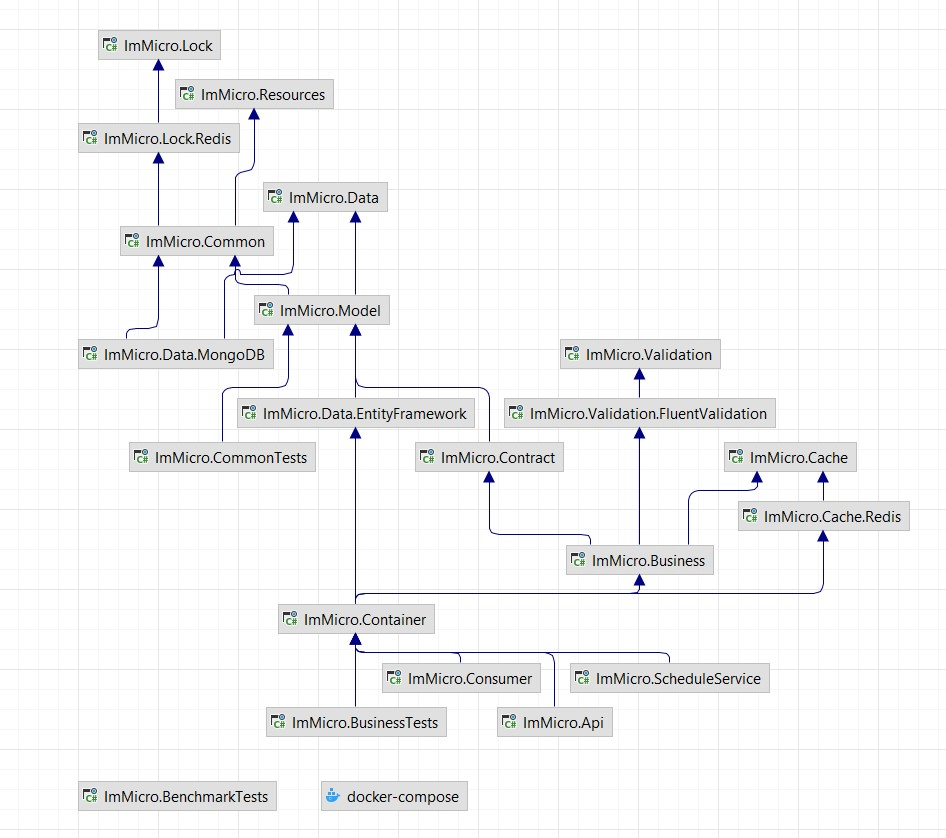
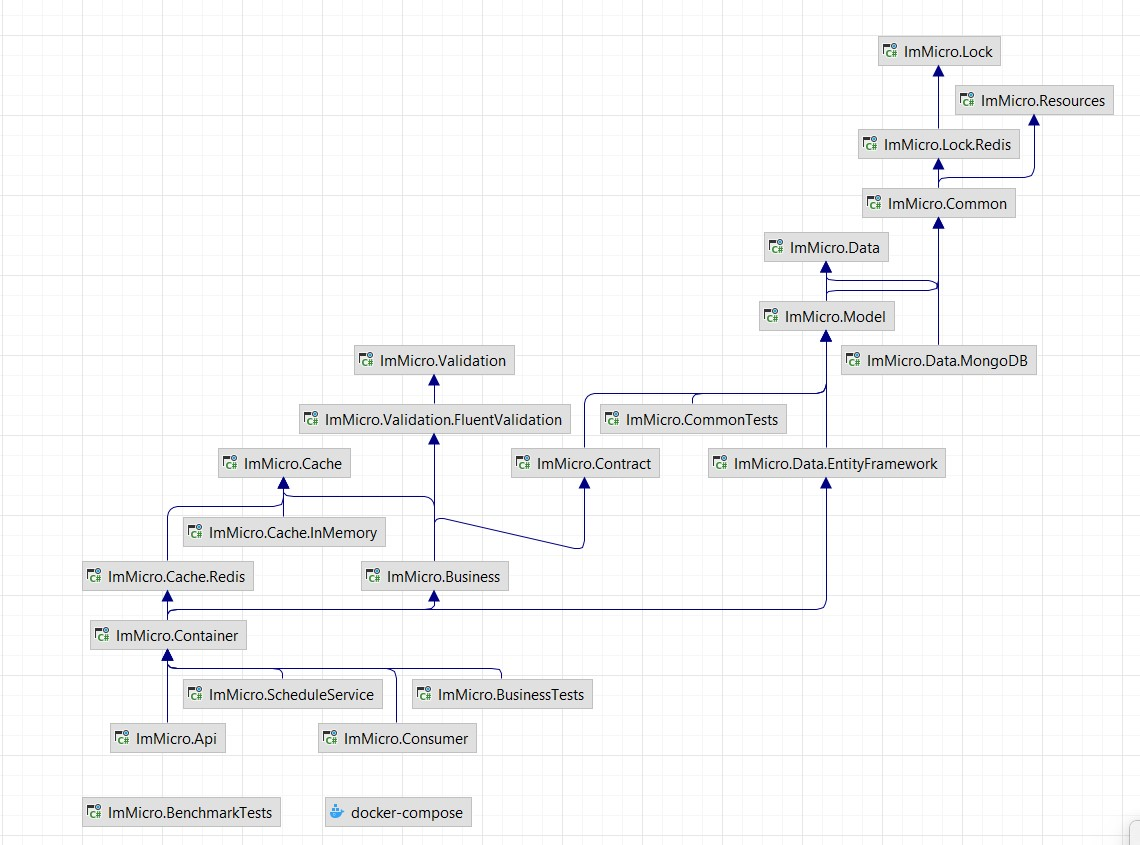
InMemory cache project added.

diff --git a/ImMicro.Cache.InMemory/Concrete/InMemoryCacheService.cs b/ImMicro.Cache.InMemory/Concrete/InMemoryCacheService.cs
@@ -1,16 +1,15 @@
-using ImMicro.Cache.Abstract; 
-using Microsoft.Extensions.Caching.Distributed;
-using Newtonsoft.Json; 
+using ImMicro.Cache.Abstract;
+using Microsoft.Extensions.Caching.Memory;
 
-namespace ImMicro.Cache.Redis.Concrete
+namespace ImMicro.Cache.InMemory.Concrete
 {
-    public class RedisCacheService : ICacheService
+    public class InMemoryCacheService : ICacheService
     {
-        private readonly IDistributedCache _distributedCache;
+        private IMemoryCache _memoryCache;
 
-        public RedisCacheService(IDistributedCache distributedCache)
+        public InMemoryCacheService(IMemoryCache memoryCache)
         {
-            _distributedCache = distributedCache;
+            _memoryCache = memoryCache;
         }
 
         public async Task<T> GetOrSetObjectAsync<T>(string key, Func<T> code, int durationAsMinute, CancellationToken cancellationToken)
@@ -42,17 +41,15 @@ namespace ImMicro.Cache.Redis.Concrete
         public async Task SetObjectAsync<T>(string key, T value, int durationAsMinute, CancellationToken cancellationToken)
         {
             key = $"{key}_{Thread.CurrentThread.CurrentUICulture.Name}";
-            await _distributedCache.SetStringAsync(key, JsonConvert.SerializeObject(value), new DistributedCacheEntryOptions
-            {
-                AbsoluteExpirationRelativeToNow = TimeSpan.FromMinutes(durationAsMinute)
-            }, cancellationToken);
+            var options = new MemoryCacheEntryOptions() { AbsoluteExpiration = DateTime.UtcNow.AddMinutes(durationAsMinute) };
+            await Task.Run(() => { _memoryCache.Set(key, value, options); }, cancellationToken);
         }
 
         public async Task<T> GetObjectAsync<T>(string key, CancellationToken cancellationToken)
         {
             key = $"{key}_{Thread.CurrentThread.CurrentUICulture.Name}";
-            var value = await _distributedCache.GetStringAsync(key, cancellationToken);
-            return value == null ? default(T) : JsonConvert.DeserializeObject<T>(value);
+            var value = await Task.Run(() => { return _memoryCache.Get<T>(key); }, cancellationToken);
+            return value == null ? default(T) : value;
         }
 
         public async Task<bool> ExistObjectAsync<T>(string key, CancellationToken cancellationToken)
@@ -64,7 +61,7 @@ namespace ImMicro.Cache.Redis.Concrete
         public async Task RemoveAsync(string key, CancellationToken cancellationToken)
         {
             key = $"{key}_{Thread.CurrentThread.CurrentUICulture.Name}";
-            await _distributedCache.RemoveAsync(key, cancellationToken);
-        }
+            await Task.Run(() => { _memoryCache.Remove(key); }, cancellationToken);
+        } 
     }
 }

diff --git a/ImMicro.Cache.InMemory/StartupConfigurations/ConfigureInMemoryCache.cs b/ImMicro.Cache.InMemory/StartupConfigurations/ConfigureInMemoryCache.cs
@@ -1,0 +1,22 @@
+using Microsoft.Extensions.DependencyInjection; 
+
+namespace ImMicro.Cache.InMemory.StartupConfigurations
+{
+    /// <summary>
+    /// InMemory cache configuration extension
+    /// </summary>
+    public static class ConfigureInMemoryCache
+    {
+        /// <summary>
+        /// Add InMemory cache configuration
+        /// </summary>
+        /// <param name="services">ServiceCollection</param> 
+        /// <returns></returns>
+        public static IServiceCollection AddInMemoryCacheConfiguration(this IServiceCollection services)
+        {
+            services.AddMemoryCache();
+
+            return services;
+        } 
+    }
+}

diff --git a/ImMicro.Cache.Redis/StartupConfigurations/ConfigureDistributedCache.cs b/ImMicro.Cache.Redis/StartupConfigurations/ConfigureDistributedCache.cs
@@ -10,8 +10,7 @@ namespace ImMicro.Cache.Redis.StartupConfigurations
         /// <summary>
         /// Add Distributed cache configuration
         /// </summary>
-        /// <param name="services">ServiceCollection</param>
-        /// <param name="configuration">Configuration</param>
+        /// <param name="services">ServiceCollection</param> 
         /// <returns></returns>
         public static IServiceCollection AddDistributedCacheConfiguration(this IServiceCollection services, string connectionString, string instanceName)
         {
